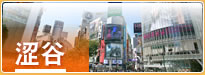
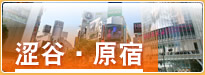
東京新規店舗追加に伴う改修 渋谷も原宿を追加
git-svn-id: svn://zeus.corp.iluna.co.jp/repos/trunk/kujapan@1015 cb5c5c06-2654-0410-af23-b9af711ba0a8

diff --git a/code/include/coupon/check.php b/code/include/coupon/check.php
@@ -33,19 +33,19 @@ class checkCoupon extends checkManager
         'title_ja'=>array
         (
             array('message'=>'！タイトル（日本語）は必須です。','func'=>'checkMust','arg'=>null),
-            array('message'=>'！タイトル（日本語）は全角で50字(半角100字)以内で入力してください。','func'=>'checkLength','arg'=>array('start'=>1,'end'=>100)),
+            array('message'=>'！タイトル（日本語）は全角で60字(半角120字)以内で入力してください。','func'=>'checkLength','arg'=>array('start'=>1,'end'=>120)),
             array('message'=>null,'func'=>'replaceInput','arg'=>'title_ja')
         ),
         'title_cn'=>array
         (
             array('message'=>'！タイトル（簡体字）は必須です。','func'=>'checkMust','arg'=>null),
-            array('message'=>'！タイトル（簡体字）は全角で50字(半角100字)以内で入力してください。','func'=>'checkLength','arg'=>array('start'=>1,'end'=>100)),
+            array('message'=>'！タイトル（簡体字）は全角で60字(半角120字)以内で入力してください。','func'=>'checkLength','arg'=>array('start'=>1,'end'=>120)),
             array('message'=>null,'func'=>'replaceInput','arg'=>'title_cn')
         ),
         'title_tw'=>array
         (
             array('message'=>'！タイトル（繁体字）は必須です。','func'=>'checkMust','arg'=>null),
-            array('message'=>'！タイトル（繁体字）は全角で50字(半角100字)以内で入力してください。','func'=>'checkLength','arg'=>array('start'=>1,'end'=>100)),
+            array('message'=>'！タイトル（繁体字）は全角で60字(半角120字)以内で入力してください。','func'=>'checkLength','arg'=>array('start'=>1,'end'=>120)),
             array('message'=>null,'func'=>'replaceInput','arg'=>'title_tw')
         ),
         'condition_ja'=>array

diff --git a/code/include/fw/container.php b/code/include/fw/container.php
@@ -151,10 +151,24 @@ class container
         
         if($this->ini['common']['isDebug'] == 0){//本番
             $this->isDebug = FALSE;
-            
-            define('SERVER_NAME_JA',      'www.kujapan.net');
-            define('SERVER_NAME_CN',      'www.kujapan.com');
-            define('SERVER_NAME_TW',      'www.kujapan.net');
+
+            if($this->ini['common']['isStage'] == 1){//ステージングサーバモード
+                    $this->isStage = TRUE;
+                    define('SERVER_NAME_JA',      'ja.kujapan.iluna.co.jp');
+                    define('SERVER_NAME_CN',      'cn.kujapan.iluna.co.jp');
+                    define('SERVER_NAME_TW',      'tw.kujapan.iluna.co.jp');
+                    $this->t->assign('stage',$this->isStage);
+            }else{
+                if($this->ini['common']['country'] == "tw"){
+                    define('SERVER_NAME_JA',      'ja.kujapan.artemis.corp.iluna.co.jp');
+                    define('SERVER_NAME_CN',      'cn.kujapan.artemis.corp.iluna.co.jp');
+                    define('SERVER_NAME_TW',      'tw.kujapan.artemis.corp.iluna.co.jp');
+                }else{
+                    define('SERVER_NAME_JA',      'www.kujapan.net');
+                    define('SERVER_NAME_CN',      'www.kujapan.com');
+                    define('SERVER_NAME_TW',      'www.kujapan.net');
+                }
+            }
         }elseif($this->ini['common']['isDebug'] == 1){//デバッグモード
             $this->isDebug = TRUE;
             if($this->ini['common']['isStage'] == 1){//ステージングサーバモード

diff --git a/code/include/user/check.php b/code/include/user/check.php
@@ -66,11 +66,11 @@ class checkSystemEntry extends checkManager
             array('message'=>'！out_trade_noは必須です。','func'=>'checkMust','arg'=>null),
             array('message'=>'！out_trade_noが不正です。','func'=>'checkInt','arg'=>null)
         ),
-        'buyer_email'=>array
+/*        'buyer_email'=>array
         (
             array('message'=>'！buyer_emailは必須です。','func'=>'checkMust','arg'=>null),
             array('message'=>'！buyer_emailが不正です。','func'=>'checkMail','arg'=>null)
-        ),
+        ),*/
         'buyer_id'=>array
         (
             array('message'=>'！buyer_idは必須です。','func'=>'checkMust','arg'=>null),

diff --git a/code/payment/alipay.php b/code/payment/alipay.php
@@ -7,6 +7,7 @@ $query = array
 'body'=>$con->locale['alipay_product_detail'],
 'return_url'=>'http://cn.kujapan.apollon.corp.iluna.co.jp/make.php',
 'buyer_email'=>'honma@zeus.corp.iluna.co.jp',
+//'buyer_email'=>'15210306686',
 'buyer_id'=>'2088502583884942',
 'exterface'=>'create_direct_pay_by_user',
 'is_success'=>'T',

diff --git a/code/about.php b/code/about.php
@@ -13,7 +13,10 @@ $logos = array
 14,//坂善
 21,//Folli Follie
 'venus_fort_logo',
-31//Folli Follie
+'matsuzakaya_logo',
+'109_logo',
+31,//Folli Follie
+64,//XgirlstoreCATSTREET
 );
 $con->t->assign('logos',$logos);
 $con->append();

diff --git a/code/index.php b/code/index.php
@@ -16,7 +16,10 @@ $logos = array
 14,//坂善
 21,//Folli Follie
 'venus_fort_logo',
-31//Folli Follie
+'matsuzakaya_logo',
+'109_logo',
+31,//Folli Follie
+64,//XgirlstoreCATSTREET
 );
 $con->t->assign('logos',$logos);
 
